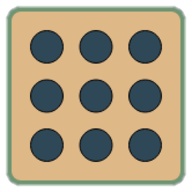
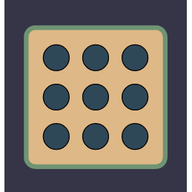
nová ikonka

diff --git a/script.js b/script.js
@@ -303,7 +303,7 @@ function final() {
       <p>Skončil(a) si s nulovým skóre...<br><span style="color: red;">Si nula...</span></p>`;
   }
   // info o reštarte sa zobrazí neviditeľno, až neskôr sa zvidieľný - a je to potom bez trhania a pohybu, nie ako pri pridávaní p elementu...
-  end_status += `<p id = "restart_click" style = "color: rgba(34, 34, 34, 0.85); font-size: 1rem; padding-top: 0.5rem;">Klikni na obrazovku pre reštart hry...</p>`;
+  end_status += `<p id = "restart_click" style = "color: var(--txt_bgr_color); font-size: 1rem; padding-top: 0.5rem;">Klikni na obrazovku pre reštart hry...</p>`;
   // zobraz ten blok
   final_info.innerHTML = end_status;
   final_info.style.display = "flex";
@@ -349,7 +349,7 @@ function resize_cubes() {
   }
   // zadefinuj nové vlastnosti kociek
   define_cube_array();
-  // ak hra nebeží, tak reset - prekreslí to kocky. Ale ak beží, tak sa prekreslia automaticky...
+  // ak hra nebeží, tak aj reset - prekreslí to kocky. Ale ak beží, tak sa prekreslia automaticky...
   // ! a nemôžem ten Reset volať vždy, teda aj uprostred hry... Resetol by som hru...
   if (!game_running) {
     reset();

diff --git a/style.css b/style.css
@@ -10,6 +10,7 @@
   --bgr_color: rgb(53, 53, 71);
   --txt_color: burlywood;
   --txt_color2: black;
+  --txt_bgr_color: rgba(34, 34, 34, 0.85);
   /*--bgr_color: rgb(177, 177, 177);
   --txt_color:rgb(32, 32, 32);
   --txt_color2: black;*/
@@ -137,7 +138,7 @@ p {
   position: absolute;
   top: 0;
   left: 0;
-  background-color: rgba(34, 34, 34, 0.85);
+  background-color: var(--txt_bgr_color);
   color: white;
   font-size: 2rem;
   display: none;
@@ -164,7 +165,7 @@ p {
   position: absolute;
   top: 0;
   left: 0;
-  background-color: rgba(34, 34, 34, 0.95);
+  background-color: var(--txt_bgr_color);
   color: white;
   font-size: 2rem;
   display: flex;

diff --git a/videostop.html b/videostop.html
@@ -1,6 +1,6 @@
 <!DOCTYPE html>
 <html lang="sk">
-<!-- © Daniel Gago Ver:1 - last update 4.1.2022 -->
+<!-- © Daniel Gago Ver:1 - last update 12.1.2022 -->
 
 <head>
 	<meta charset="UTF-8" />
